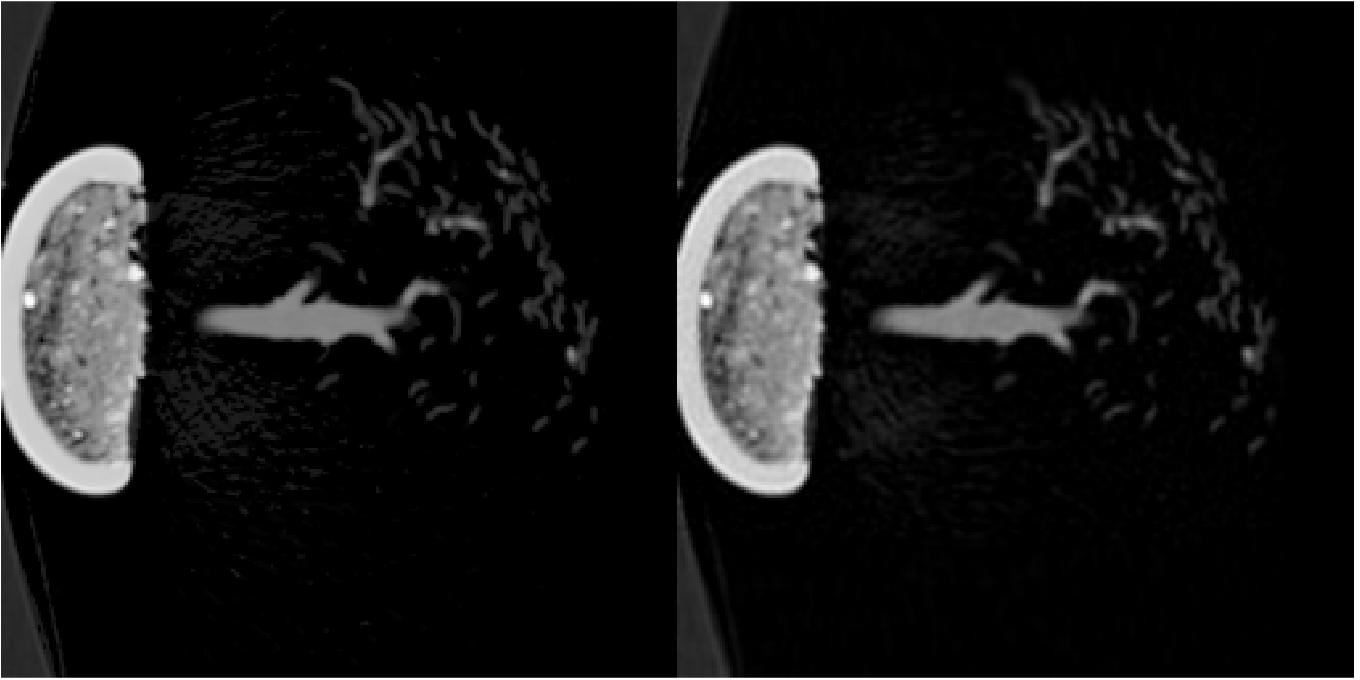
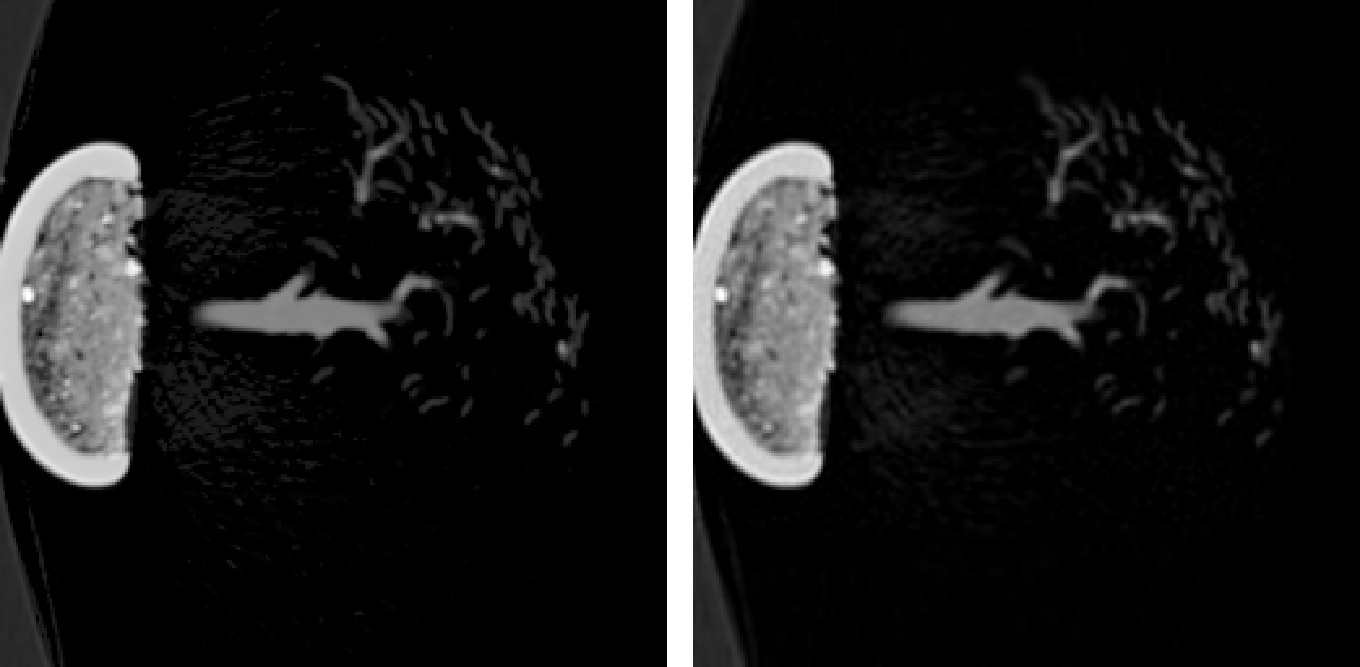
WIP readme

diff --git a/README.md b/README.md
@@ -1,22 +1,22 @@
 # Tucker Volume Compression
 
-This is a MATLAB implementation of thresholding compression method described in the paper ["Lossy Volume Compression Using Tucker Truncation and Thresholding"](http://www.ifi.uzh.ch/en/vmml/publications/lossycompression.html). For more details on the Tucker transform and tensor-based volume compression, check out [my slides](http://www.ifi.uzh.ch/dam/jcr:00000000-73a0-83b8-ffff-ffffd48b8a42/tensorapproximation.pdf).
+This is a MATLAB implementation of the thresholding compression method described in the paper [*Lossy Volume Compression Using Tucker Truncation and Thresholding*](http://www.ifi.uzh.ch/en/vmml/publications/lossycompression.html). For more details on the Tucker transform and tensor-based volume compression, check out my [slides](http://www.ifi.uzh.ch/dam/jcr:00000000-73a0-83b8-ffff-ffffd48b8a42/tensorapproximation.pdf).
 
 ## Usage
 
-The core function is ```thresholding_compression(X,fraction)```, where ```X``` is a volume and 0 < ```fraction``` <= 1 is the main compression parameter (namely, what fraction of elements should survive when thresholding).
+The core function is ```thresholding_compression(X,fraction)```, where ```X``` is a volume and 0 < ```fraction``` <= 1 is the main compression parameter (namely, what fraction of elements should survive the thresholding step).
 
 Try out the code with the example script ```run.m```:
 
-1. Download the [bonsai data set](http://www.tc18.org/code_data_set/3D_greyscale/bonsai.raw.gz) and unpack it as ```bonsai.raw``` into the project folder.
+1. Download the [bonsai data set](http://www.tc18.org/code_data_set/3D_greyscale/bonsai.raw.gz) (16MB, 8-bit unsigned int) and unpack it as ```bonsai.raw``` into the project folder.
 1. Compile the C++ file ```rle_huffman.cpp``` into an executable called ```rle_huffman```.
 2. In the MATLAB interpreter, go to the project folder and call ```run```.
 
 For example, ```fraction=0.01``` yields below 3.5 RMSE and 1:44 compression rate (left original, right compressed): 
 
-![Original vs. reconstructed](https://github.com/rballester/tucker_compression/blob/master/images/original_vs_reconstructed.jpg)
+<img src="https://github.com/rballester/tucker_compression/blob/master/images/original_vs_reconstructed.jpg" width="512">
 
-You are free to use and modify the code. If you use it for a publication, please cite the paper:
+You are free to **use and modify** the code. If you use it for a publication, **please cite the paper**:
 
 ```@article{BP:15, year={2015}, issn={0178-2789}, journal={The Visual Computer}, title={Lossy volume compression using {T}ucker truncation and thresholding}, publisher={Springer Berlin Heidelberg}, keywords={Tensor approximation; Data compression; Higher-order decompositions; Tensor rank reduction; Multidimensional data encoding}, author={Ballester-Ripoll, Rafael and Pajarola, Renato}, pages={1-14}}```
 
@@ -24,13 +24,13 @@ You are free to use and modify the code. If you use it for a publication, please
 
 Our tresholding algorithm exploits the fact that the largest coefficients of the Tucker core tend to concentrate around one spot (the **hot corner**), that usually encodes the lowest-frequency components. Example:
 
-![Hot corner example](https://github.com/rballester/tucker_compression/blob/master/images/hot_corner.jpg)
+<img src="https://github.com/rballester/tucker_compression/blob/master/images/hot_corner.jpg" width="128">
 
 The algorithm runs these steps sequentially:
 
-1. Compute the Tucker decomposition of a volume of size I x I x I into a core of size I x I x I.
-2. Threshold the core.
-3. Traverse the result in a 3D zig-zag diagonal fashion, starting from the hot corner (most coefficients survive the thresholding around there).
-4. Encode the result as a set of remaining values + a set of R x R x R bits of presence (indicating whether each core value survived the threshold or not).
-5. Quantize the remaining values logarithmically. Quantize also the Tucker factor matrices.
-6. Compress the stream of bits-of-presence using run-length encoding, followed by Huffman encoding.
+1. Compute the **Tucker decomposition** of a volume of size I x I x I into a core of size I x I x I.
+2. **Threshold** the core.
+3. Traverse the result in a **3D zig-zag** fashion, starting from the hot corner (most coefficients survive the thresholding around there).
+4. Encode the result as a set of **remaining values** + a set of I x I x I **bits of presence** (indicating whether each core value survived the threshold or not).
+5. **Quantize logarithmically** the remaining values. Quantize also the Tucker factor matrices.
+6. Compress the stream of bits-of-presence using **run-length** encoding, followed by **Huffman encoding**.
